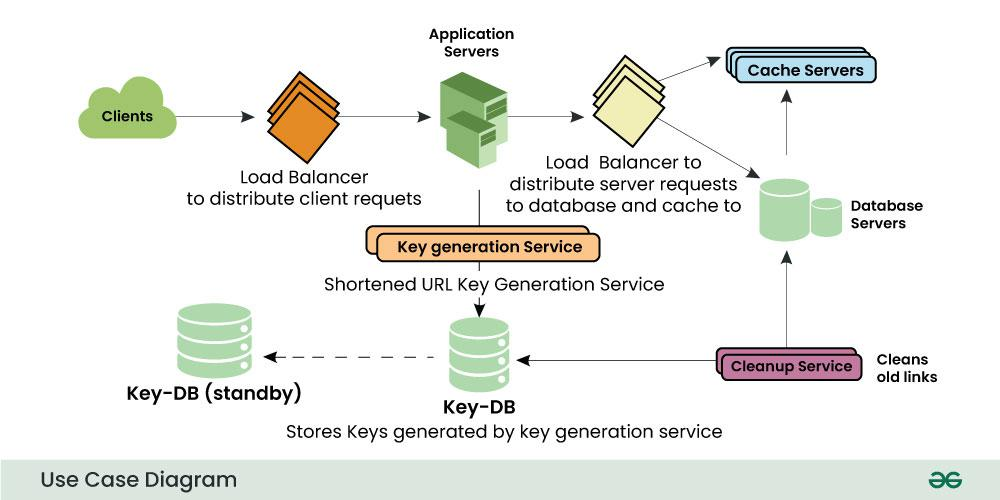
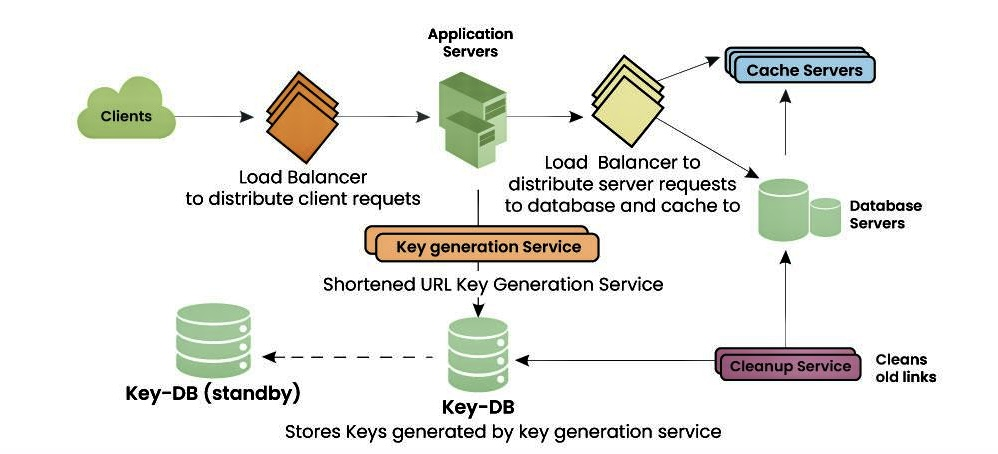
chore: refined UI fixes

Changed region(s): [[0.0, 0.0617, 1.0, 1.0], [0.6834, 0.0925, 0.9008, 0.2467]]

diff --git a/src/features/auth/components/FeatureItem.tsx b/src/features/auth/components/FeatureItem.tsx
@@ -18,7 +18,7 @@ const ICON_MAP: Record<FeatureIconType, React.ReactNode> = {
 export function FeatureItem({ icon, title, description }: FeatureItemProps) {
   return (
     <div className="flex items-start space-x-4">
-      <div className="bg-primary-soft w-10 h-10 rounded-full border border-primary-mid flex items-center justify-center shrink-0 shadow-xs">
+      <div className="bg-primary-soft w-12 h-12 rounded-full border border-primary-mid flex items-center justify-center shrink-0 shadow-md shadow-primary/20 ring-4 ring-primary/5">
         {ICON_MAP[icon]}
       </div>
 

diff --git a/src/features/projects/components/tabs/index.tsx b/src/features/projects/components/tabs/index.tsx
@@ -99,7 +99,7 @@ export function ProjectDetailTabs({ project }: { project: ProjectDetail }) {
   return (
     <>
       <TabBar activeTab={activeTab} onChange={setActiveTab} />
-      <div className="rounded-b-2xl border border-t-0 border-slate-200 bg-slate-50 overflow-hidden">
+      <div className="rounded-b-2xl border border-t-0 border-slate-200 bg-slate-50 overflow-hidden min-h-[600px]">
         <div className={activeTab === 'ui-preview' ? 'block' : 'hidden'}>
           <UIPreviewTab
             slug={project.slug}

diff --git a/src/features/auth/components/RegisterForm.tsx b/src/features/auth/components/RegisterForm.tsx
@@ -135,7 +135,7 @@ export function RegisterForm() {
             htmlFor="username"
             className="block text-[13px] text-fg mb-1.5 uppercase tracking-wide"
           >
-            Full name
+            Username
           </label>
           <div className="relative">
             <span
